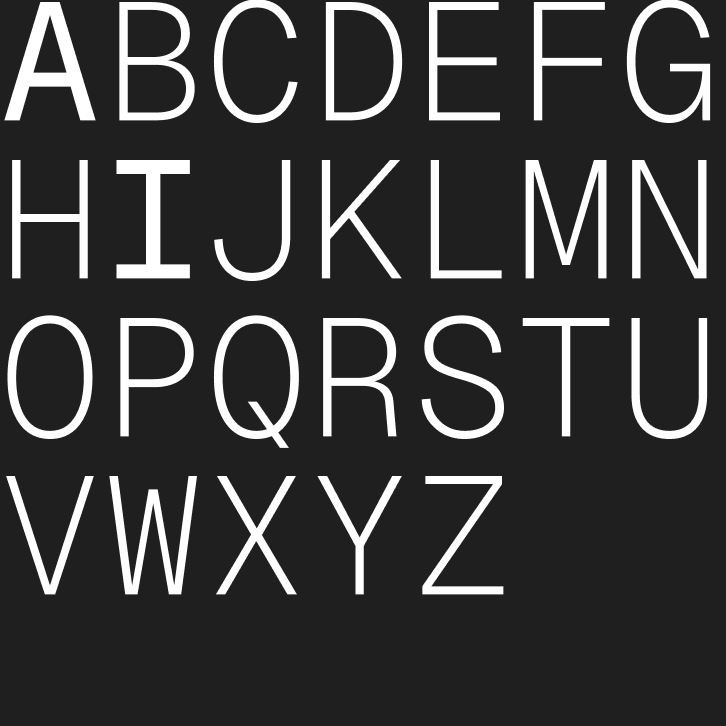
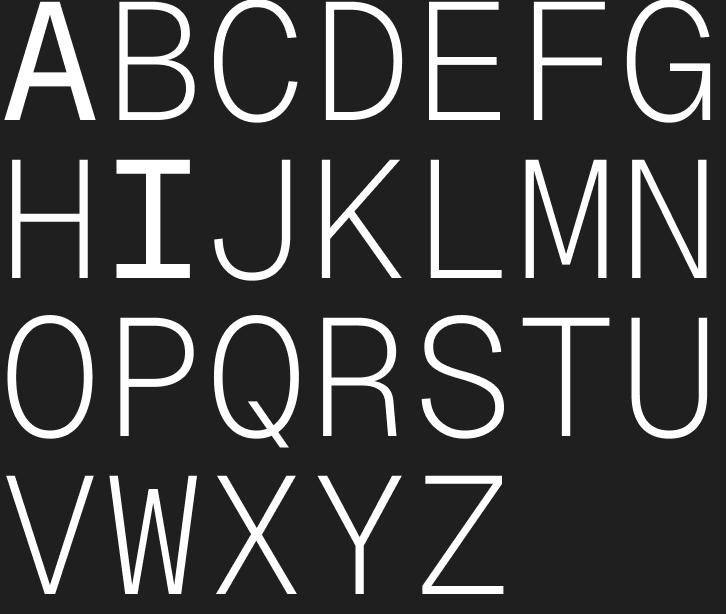
Thinking: Myles' updated copy and crop on the brand-guidelines and B2B-games cards

diff --git a/thinking.html b/thinking.html
@@ -518,12 +518,13 @@
 
     <!-- The mosaic, card for card from the reworked frame: spans and media
          ratios are the frame's own (the ratio rides inline as --ar). Cards
-         4 and 6 are the two posts with pages. ⚠ Three copy calls, flagged
-         in the notes: "cant"->"can't" and "more that ever"->"than" corrected
-         as typos; tile 18's byline category read "Startegy" and is
-         corrected to Strategy so the Strategy filter isn't empty. Repeated
-         titles/excerpts (4/7, 11/17, 10/14, and the shared Alys Key
-         excerpt) are the frame's own copy, reproduced as drawn. -->
+         4 and 6 are the two posts with pages. ⚠ Copy calls, flagged in the
+         notes: "cant"->"can't" and "Why is pays"->"Why it pays" corrected
+         as typos; tile 18's byline category still reads "Startegy" in the
+         frame and is corrected to Strategy here. ("more that ever" was
+         corrected the same way and Myles has since fixed it at source.)
+         The remaining repeats — 10/14's shared title and the Alys Key
+         excerpt on four cards — are the frame's own copy, as drawn. -->
     <div class="post-grid" id="postGrid">
       <a class="card span-3 reveal" href="#" data-cat="ai" style="--ar:1149/763">
         <div class="card-media"><img class="card-face" src="assets/thinking/01-aeo.jpg" alt="" loading="eager" decoding="async"></div>
@@ -561,9 +562,9 @@
         <p class="excerpt">Meet Janelle who encourages fellow Frameworkers to shake things up with their footwear.</p>
         <p class="byline">By Rose | 24.03.26 | Culture</p>
       </a>
-      <a class="card reveal" href="#" data-cat="ai" style="--ar:1/1">
+      <a class="card reveal" href="#" data-cat="ai" style="--ar:363/307">
         <div class="card-media"><img class="card-face" src="assets/thinking/07-answers-alphabet.png" alt="" loading="lazy" decoding="async"></div>
-        <h2>Your brand has got the answers. AI just can’t find them.</h2>
+        <h2>Are your brand guidelines ready to deliver behaviour?</h2>
         <p class="excerpt">You don’t need to create a second universe of AI content. You just need to make the gold you already have accessible to AI.</p>
         <p class="byline">By Don | 17.08.26 | AI</p>
       </a>
@@ -621,11 +622,11 @@
         <p class="excerpt">Welcome to The Prompt, a series tackling all the big questions about building B2B brands in an AI world.</p>
         <p class="byline">By Louise | 24.02.26 | AI</p>
       </a>
-      <a class="card span-2 reveal" href="#" data-cat="culture" style="--ar:756/566">
+      <a class="card span-2 reveal" href="#" data-cat="strategy" style="--ar:756/566">
         <div class="card-media"><img class="card-face" src="assets/thinking/17-rose-hands.jpg" alt="" loading="lazy" decoding="async"></div>
-        <h2>I am challenging: Rose</h2>
-        <p class="excerpt">Rose, our Design Director, challenges herself to get back into drawing and for everyone to find joy in the small things.</p>
-        <p class="byline">By Rose | 24.03.26 | Culture</p>
+        <h2>Why it pays to play B2B?</h2>
+        <p class="excerpt">Games aren’t just for fun – they can shape a serious engagement strategy.</p>
+        <p class="byline">By Rose | 24.03.26 | Strategy</p>
       </a>
       <a class="card span-2 reveal" href="#" data-cat="strategy" style="--ar:1/1">
         <div class="card-media"><img class="card-face" src="assets/thinking/18-think-big.jpg" alt="" loading="lazy" decoding="async"></div>
